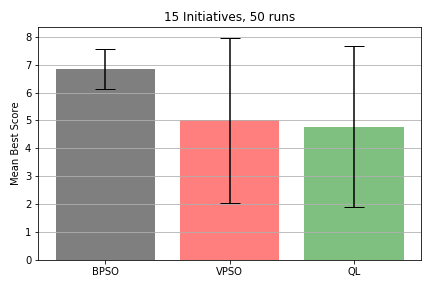
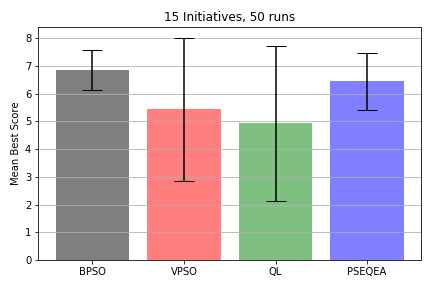
Add files via upload
add a new algorithm in python called PSEQEA, then I edited the main to call this new function.

diff --git a/PSEQEA.py b/PSEQEA.py
@@ -1,0 +1,81 @@
+def PSEQEA(noP,Max_iteration,CostFunction,noV):
+    """function that calculate the optimum using Particle Swarm Embeded Quantum Evolutionary algoritym"""
+    import numpy as np
+    import random
+    import math
+    
+    ############# weight variable #################
+    c1=2       # cognitive weight
+    c2=2       # social weight
+
+    ########## Angle for the Quantum operator ################
+    Theta = np.zeros([noP,noV])  #angle will replace Velocity vector when using QEA
+  
+    ############# initial q-bits all with the same propability ###########
+    qbit = np.ones([2,noP,noV])/np.sqrt(2)
+
+    ############# initialize Position vector ####################
+    Position = np.random.randint(2, size=[noP,noV])
+
+    ############# Cognitive component #############
+    pBestScore = np.ones(noP)*math.inf
+    pBest = np.zeros([noP,noV])
+
+    ######### Social Component ################
+    gBestScore = math.inf         #initial condition is infinity
+    gBest = np.zeros(noV)
+
+    ########### Q-bit opertor ##################
+    def OpQ(theta):
+        return (np.cos(theta), -np.sin(theta), np.sin(theta), np.cos(theta))
+  
+    #Calculate cost for each particle
+
+    NumbConv=200             # Number of equal fitness
+    ConvergenceCurve = np.ones(Max_iteration)*math.nan #Convergence vector
+    IterNumb=0               # counter
+    stepEqual = 0
+
+    while IterNumb<Max_iteration:
+        IterNumb+=1
+        for i in range(noP): 
+            fitness = CostFunction(Position[i,:])
+        
+            if pBestScore[i]>fitness:
+                pBestScore[i]=fitness;
+                pBest[i,:] = Position[i,:]
+            if gBestScore>fitness:
+                gBestScore=fitness
+                gBest=Position[i,:]
+        
+        #Calculating the rotation angle for each q-bit
+        for i in range(noP):
+            for j in range(noV):
+                Theta[i,j]= c1*(pBest[i,j]-Position[i,j])+c2*(gBest[j]-Position[i,j])
+
+         # updating the q-bits
+        for i in range(noP):
+            for j in range(noV):
+                Qmat = OpQ(Theta[i,j])
+                qbitTemp1 = qbit[0,i,j]
+                qbitTemp2 = qbit[1,i,j]
+                qbit[0,i,j]= Qmat[0]*qbitTemp1+Qmat[1]*qbitTemp2
+                qbit[1,i,j]= Qmat[2]*qbitTemp1+Qmat[3]*qbitTemp2
+
+        #updating the states
+        for i in range(noP):
+            for j in range(noV):
+                if random.uniform(0,1) < qbit[1,i,j]**2:
+                    Position[i,j]=1;
+                else:
+                    Position[i,j]=0;
+
+        ConvergenceCurve[IterNumb]= gBestScore;
+        if ConvergenceCurve[IterNumb-1] == gBestScore:
+            stepEqual += 1
+        else:
+            stepEqual = 0
+        if stepEqual == NumbConv:
+            break
+
+    return(gBest,gBestScore,ConvergenceCurve,IterNumb)
